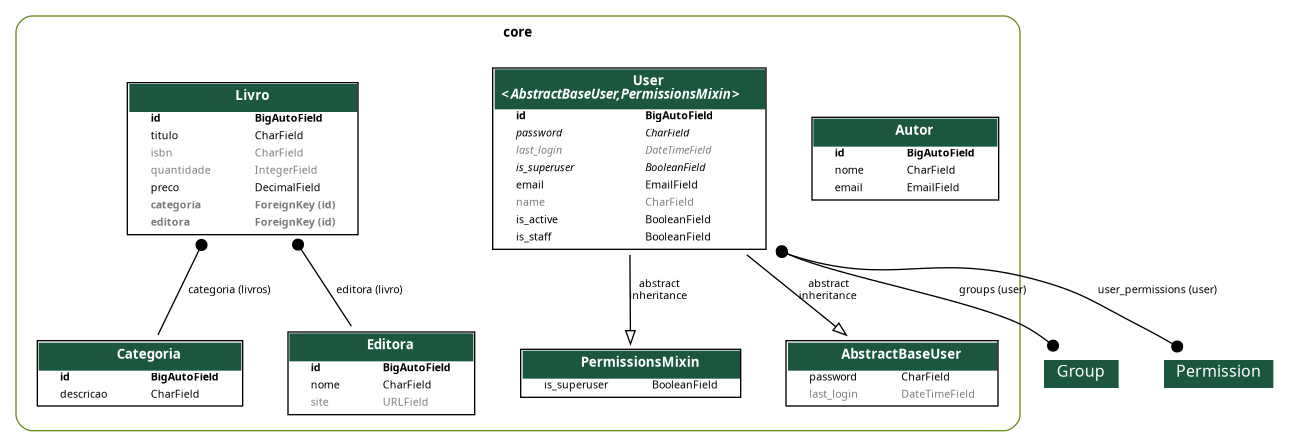
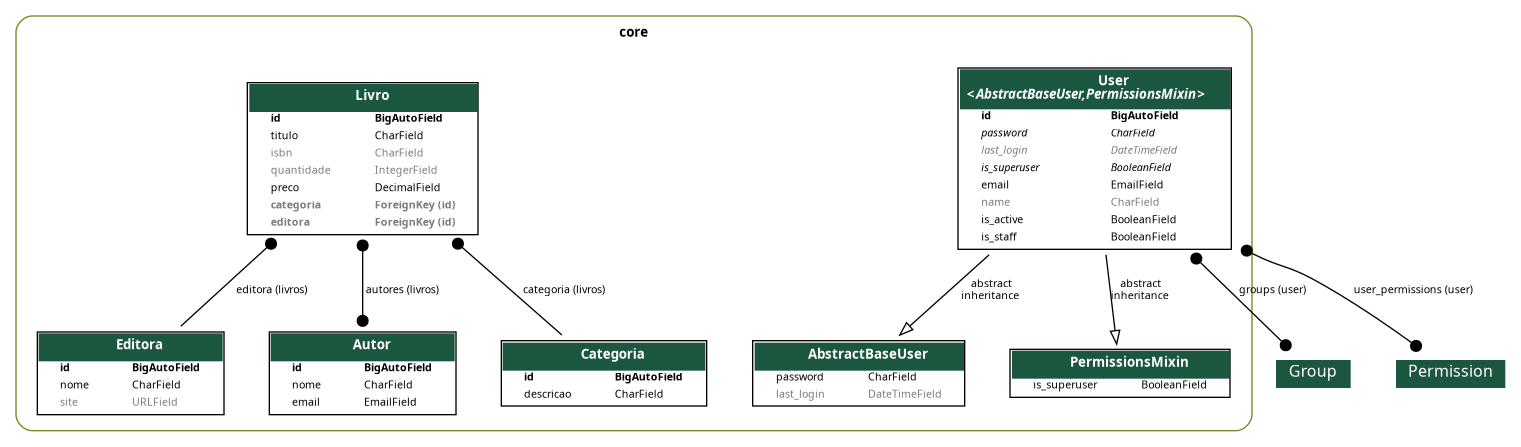
feat: inclusão do relacionamento n para n entre Livro e Autor

diff --git a/core/models/livro.py b/core/models/livro.py
@@ -1,5 +1,6 @@
 from django.db import models
 
+from .autor import Autor
 from .categoria import Categoria
 from .editora import Editora
 
@@ -10,7 +11,8 @@ class Livro(models.Model):
     quantidade = models.IntegerField(default=0, null=True, blank=True)
     preco = models.DecimalField(max_digits=7, decimal_places=2, default=0)
     categoria = models.ForeignKey(Categoria, on_delete=models.PROTECT, related_name='livros', null=True, blank=True)
-    editora = models.ForeignKey(Editora, on_delete=models.PROTECT, blank=True, null=True)
+    editora = models.ForeignKey(Editora, on_delete=models.PROTECT, related_name='livros', blank=True, null=True)
+    autores = models.ManyToManyField(Autor, related_name='livros', blank=True)
 
     def __str__(self):
         return f'({self.id}) {self.titulo} ({self.quantidade})'

diff --git a/core/migrations/0009_livro_autores_alter_livro_editora.py b/core/migrations/0009_livro_autores_alter_livro_editora.py
@@ -1,0 +1,24 @@
+# Generated by Django 5.2.12 on 2026-03-20 13:56
+
+import django.db.models.deletion
+from django.db import migrations, models
+
+
+class Migration(migrations.Migration):
+
+    dependencies = [
+        ('core', '0008_livro_editora'),
+    ]
+
+    operations = [
+        migrations.AddField(
+            model_name='livro',
+            name='autores',
+            field=models.ManyToManyField(blank=True, related_name='livros', to='core.autor'),
+        ),
+        migrations.AlterField(
+            model_name='livro',
+            name='editora',
+            field=models.ForeignKey(blank=True, null=True, on_delete=django.db.models.deletion.PROTECT, related_name='livros', to='core.editora'),
+        ),
+    ]
